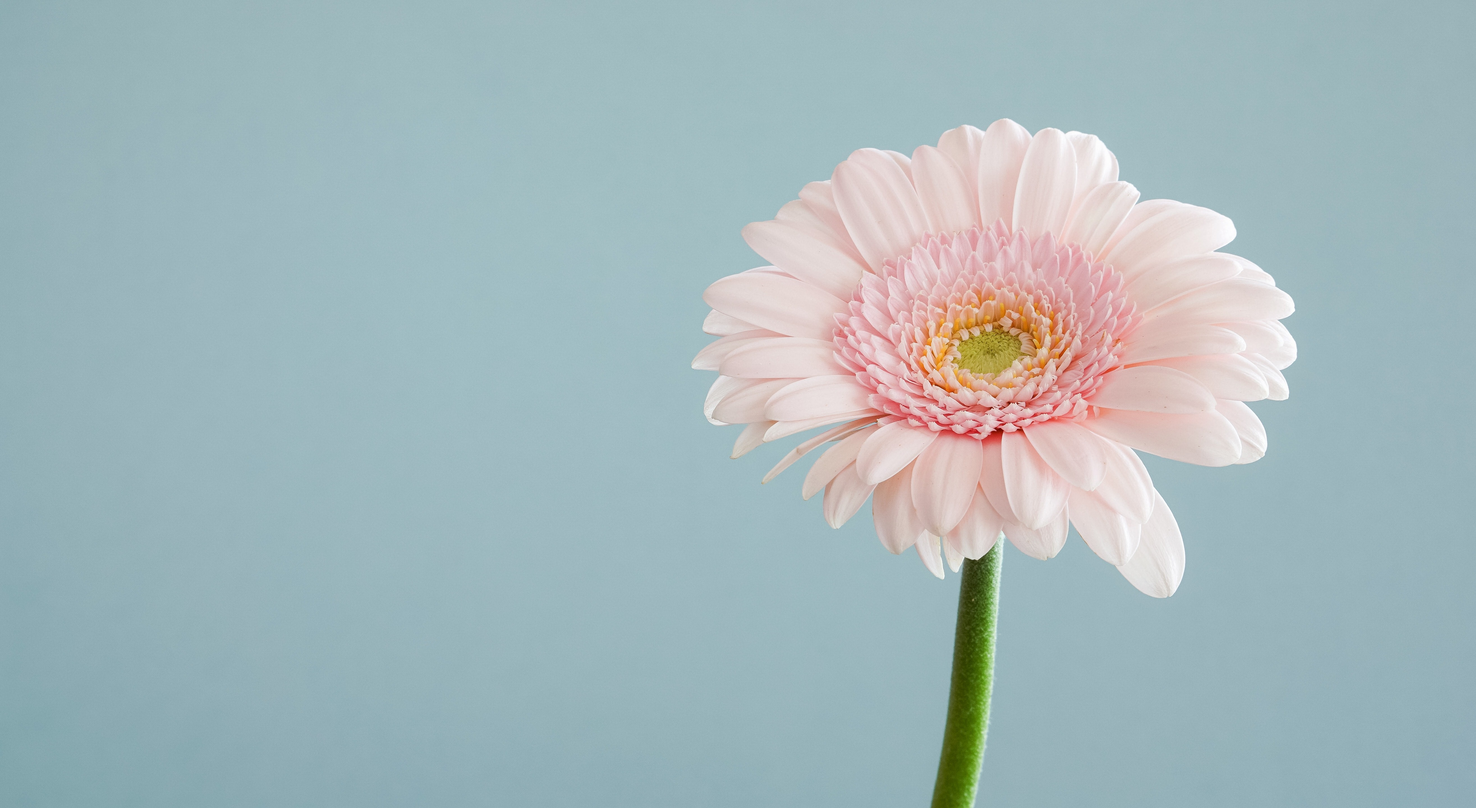
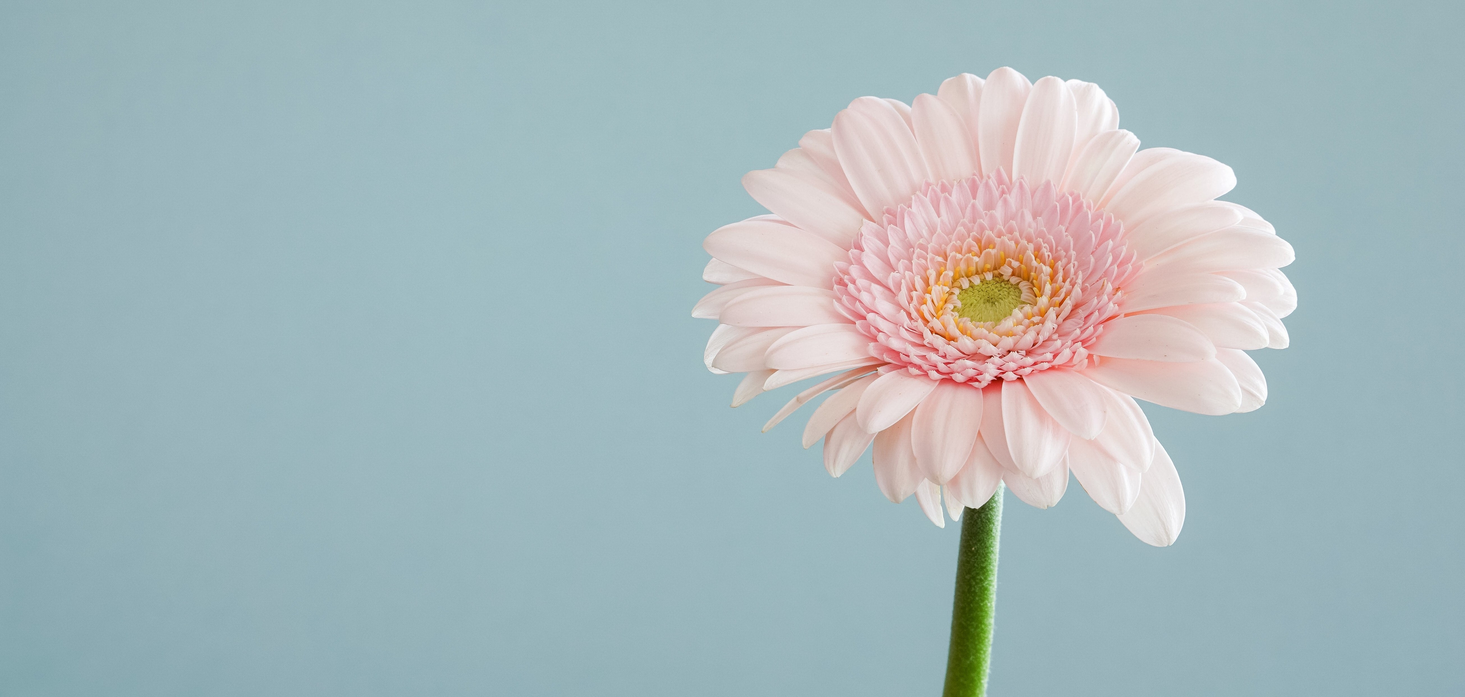
test

Changed region(s): [[0.4683, 0.093, 0.9054, 1.0]]

diff --git a/myWeb/bin/main/templates/garbage.html b/myWeb/bin/main/templates/garbage.html
@@ -15,11 +15,11 @@
       @font-face { font-family: 'KOMACON'; src: url('https://cdn.jsdelivr.net/gh/projectnoonnu/noonfonts_seven@1.2/KOMACON.woff') format('woff'); font-weight: normal; font-style: normal; }
      
      /* header */
-     .header {height:600px; overflow:hidden;}
+     .header {height:800px; overflow:hidden;}
      .header div img {width:200px; height:40px; margin:20px 60px 0px 20px; float:left;}
      .header ul li {float:left; font-size:1.1em; margin:38px 35px 0px 0px;font-family:'Bazzi'}
      .header ul li a {color:#6dc3a6;}
-     .header div:nth-child(2) img {width:100vw; height:45vh; margin:10px 0px 0px 0px;}
+     .header div:nth-child(2) img {width:100vw; height:70vh; margin:10px 0px 0px 0px;}
      
      /* footer */
      .footer {height:150px; background-color:#6dc3a6; display:grid; grid-template-columns:3fr 1fr; margin-top:50px;}
@@ -42,7 +42,7 @@
     	 	</ul>
      </div>
      <div>
-          <img alt="조금 긴 뉴스" src="image\hue.jpg">
+          <img alt="조금 긴 뉴스" src="image\flower.jpg">
      </div>
 </div>
 

diff --git a/myWeb/src/main/resources/templates/garbage.html b/myWeb/src/main/resources/templates/garbage.html
@@ -15,11 +15,11 @@
       @font-face { font-family: 'KOMACON'; src: url('https://cdn.jsdelivr.net/gh/projectnoonnu/noonfonts_seven@1.2/KOMACON.woff') format('woff'); font-weight: normal; font-style: normal; }
      
      /* header */
-     .header {height:600px; overflow:hidden;}
+     .header {height:800px; overflow:hidden;}
      .header div img {width:200px; height:40px; margin:20px 60px 0px 20px; float:left;}
      .header ul li {float:left; font-size:1.1em; margin:38px 35px 0px 0px;font-family:'Bazzi'}
      .header ul li a {color:#6dc3a6;}
-     .header div:nth-child(2) img {width:100vw; height:45vh; margin:10px 0px 0px 0px;}
+     .header div:nth-child(2) img {width:100vw; height:70vh; margin:10px 0px 0px 0px;}
      
      /* footer */
      .footer {height:150px; background-color:#6dc3a6; display:grid; grid-template-columns:3fr 1fr; margin-top:50px;}
@@ -42,7 +42,7 @@
     	 	</ul>
      </div>
      <div>
-          <img alt="조금 긴 뉴스" src="image\hue.jpg">
+          <img alt="조금 긴 뉴스" src="image\flower.jpg">
      </div>
 </div>
 

diff --git a/myWeb/bin/main/templates/lunch.html b/myWeb/bin/main/templates/lunch.html
@@ -15,11 +15,11 @@
       @font-face { font-family: 'KOMACON'; src: url('https://cdn.jsdelivr.net/gh/projectnoonnu/noonfonts_seven@1.2/KOMACON.woff') format('woff'); font-weight: normal; font-style: normal; }
      
      /* header */
-     .header {height:600px; overflow:hidden;}
+     .header {height:800px; overflow:hidden;}
      .header div img {width:200px; height:40px; margin:20px 60px 0px 20px; float:left;}
      .header ul li {float:left; font-size:1.1em; margin:38px 35px 0px 0px;font-family:'Bazzi'}
      .header ul li a {color:#6dc3a6;}
-     .header div:nth-child(2) img {width:100vw; height:45vh; margin:10px 0px 0px 0px;}
+     .header div:nth-child(2) img {width:100vw; height:70vh; margin:10px 0px 0px 0px;}
      
      /* footer */
      .footer {height:150px; background-color:#6dc3a6; display:grid; grid-template-columns:3fr 1fr; margin-top:50px;}
@@ -42,7 +42,7 @@
     	 	</ul>
      </div>
      <div>
-          <img alt="조금 긴 뉴스" src="image\hue.jpg">
+          <img alt="조금 긴 뉴스" src="image\lunch.jpg">
      </div>
 </div>
 

diff --git a/myWeb/src/main/resources/templates/lunch.html b/myWeb/src/main/resources/templates/lunch.html
@@ -15,11 +15,11 @@
       @font-face { font-family: 'KOMACON'; src: url('https://cdn.jsdelivr.net/gh/projectnoonnu/noonfonts_seven@1.2/KOMACON.woff') format('woff'); font-weight: normal; font-style: normal; }
      
      /* header */
-     .header {height:600px; overflow:hidden;}
+     .header {height:800px; overflow:hidden;}
      .header div img {width:200px; height:40px; margin:20px 60px 0px 20px; float:left;}
      .header ul li {float:left; font-size:1.1em; margin:38px 35px 0px 0px;font-family:'Bazzi'}
      .header ul li a {color:#6dc3a6;}
-     .header div:nth-child(2) img {width:100vw; height:45vh; margin:10px 0px 0px 0px;}
+     .header div:nth-child(2) img {width:100vw; height:70vh; margin:10px 0px 0px 0px;}
      
      /* footer */
      .footer {height:150px; background-color:#6dc3a6; display:grid; grid-template-columns:3fr 1fr; margin-top:50px;}
@@ -42,7 +42,7 @@
     	 	</ul>
      </div>
      <div>
-          <img alt="조금 긴 뉴스" src="image\hue.jpg">
+          <img alt="조금 긴 뉴스" src="image\lunch.jpg">
      </div>
 </div>
 

diff --git a/myWeb/bin/main/templates/longNews.html b/myWeb/bin/main/templates/longNews.html
@@ -15,11 +15,11 @@
       @font-face { font-family: 'KOMACON'; src: url('https://cdn.jsdelivr.net/gh/projectnoonnu/noonfonts_seven@1.2/KOMACON.woff') format('woff'); font-weight: normal; font-style: normal; }
      
      /* header */
-     .header {height:600px; overflow:hidden;}
+     .header {height:800px; overflow:hidden;}
      .header div img {width:200px; height:40px; margin:20px 60px 0px 20px; float:left;}
      .header ul li {float:left; font-size:1.1em; margin:38px 35px 0px 0px;font-family:'Bazzi'}
      .header ul li a {color:#6dc3a6;}
-     .header div:nth-child(2) img {width:100vw; height:45vh; margin:10px 0px 0px 0px;}
+     .header div:nth-child(2) img {width:100vw; height:70vh; margin:10px 0px 0px 0px;}
   
      /* content */
      .latest_news {width:60%; overflow:hidden; margin: 0px auto; border-top:1px solid grey;}
@@ -55,7 +55,7 @@
     	 	</ul>
      </div>
      <div>
-          <img alt="조금 긴 뉴스" src="image\hue.jpg">
+          <img alt="조금 긴 뉴스" src="image\symmetry1.jpg">
      </div>
         
 </div>

diff --git a/myWeb/src/main/resources/templates/longNews.html b/myWeb/src/main/resources/templates/longNews.html
@@ -15,11 +15,11 @@
       @font-face { font-family: 'KOMACON'; src: url('https://cdn.jsdelivr.net/gh/projectnoonnu/noonfonts_seven@1.2/KOMACON.woff') format('woff'); font-weight: normal; font-style: normal; }
      
      /* header */
-     .header {height:600px; overflow:hidden;}
+     .header {height:800px; overflow:hidden;}
      .header div img {width:200px; height:40px; margin:20px 60px 0px 20px; float:left;}
      .header ul li {float:left; font-size:1.1em; margin:38px 35px 0px 0px;font-family:'Bazzi'}
      .header ul li a {color:#6dc3a6;}
-     .header div:nth-child(2) img {width:100vw; height:45vh; margin:10px 0px 0px 0px;}
+     .header div:nth-child(2) img {width:100vw; height:70vh; margin:10px 0px 0px 0px;}
   
      /* content */
      .latest_news {width:60%; overflow:hidden; margin: 0px auto; border-top:1px solid grey;}
@@ -55,7 +55,7 @@
     	 	</ul>
      </div>
      <div>
-          <img alt="조금 긴 뉴스" src="image\hue.jpg">
+          <img alt="조금 긴 뉴스" src="image\symmetry1.jpg">
      </div>
         
 </div>

diff --git a/myWeb/bin/main/templates/shortNews.html b/myWeb/bin/main/templates/shortNews.html
@@ -19,7 +19,7 @@
      .header div img {width:200px; height:40px; margin:20px 60px 0px 20px; float:left;}
      .header ul li {float:left; font-size:1.1em; margin:38px 35px 0px 0px;font-family:'Bazzi'}
      .header ul li a {color:#6dc3a6;}
-     .header div:nth-child(2) img {width:100vw; height:80vh; margin:10px 0px 0px 0px;}
+     .header div:nth-child(2) img {width:100vw; height:70vh; margin:10px 0px 0px 0px;}
      
      /* footer */
      .footer {height:150px; background-color:#6dc3a6; display:grid; grid-template-columns:3fr 1fr; margin-top:50px;}
@@ -47,7 +47,7 @@
  	 	</ul>
     </div>
     <div>
-       <img alt="조금 긴 뉴스" src="image\symmetry4.jpg">
+       <img alt="조금 긴 뉴스" src="image\symmetry2.jpg">
     </div>
 </div>
 

diff --git a/myWeb/src/main/resources/templates/shortNews.html b/myWeb/src/main/resources/templates/shortNews.html
@@ -19,7 +19,7 @@
      .header div img {width:200px; height:40px; margin:20px 60px 0px 20px; float:left;}
      .header ul li {float:left; font-size:1.1em; margin:38px 35px 0px 0px;font-family:'Bazzi'}
      .header ul li a {color:#6dc3a6;}
-     .header div:nth-child(2) img {width:100vw; height:80vh; margin:10px 0px 0px 0px;}
+     .header div:nth-child(2) img {width:100vw; height:70vh; margin:10px 0px 0px 0px;}
      
      /* footer */
      .footer {height:150px; background-color:#6dc3a6; display:grid; grid-template-columns:3fr 1fr; margin-top:50px;}
@@ -47,7 +47,7 @@
  	 	</ul>
     </div>
     <div>
-       <img alt="조금 긴 뉴스" src="image\symmetry5.jpg">
+       <img alt="조금 긴 뉴스" src="image\symmetry2.jpg">
     </div>
 </div>
 
